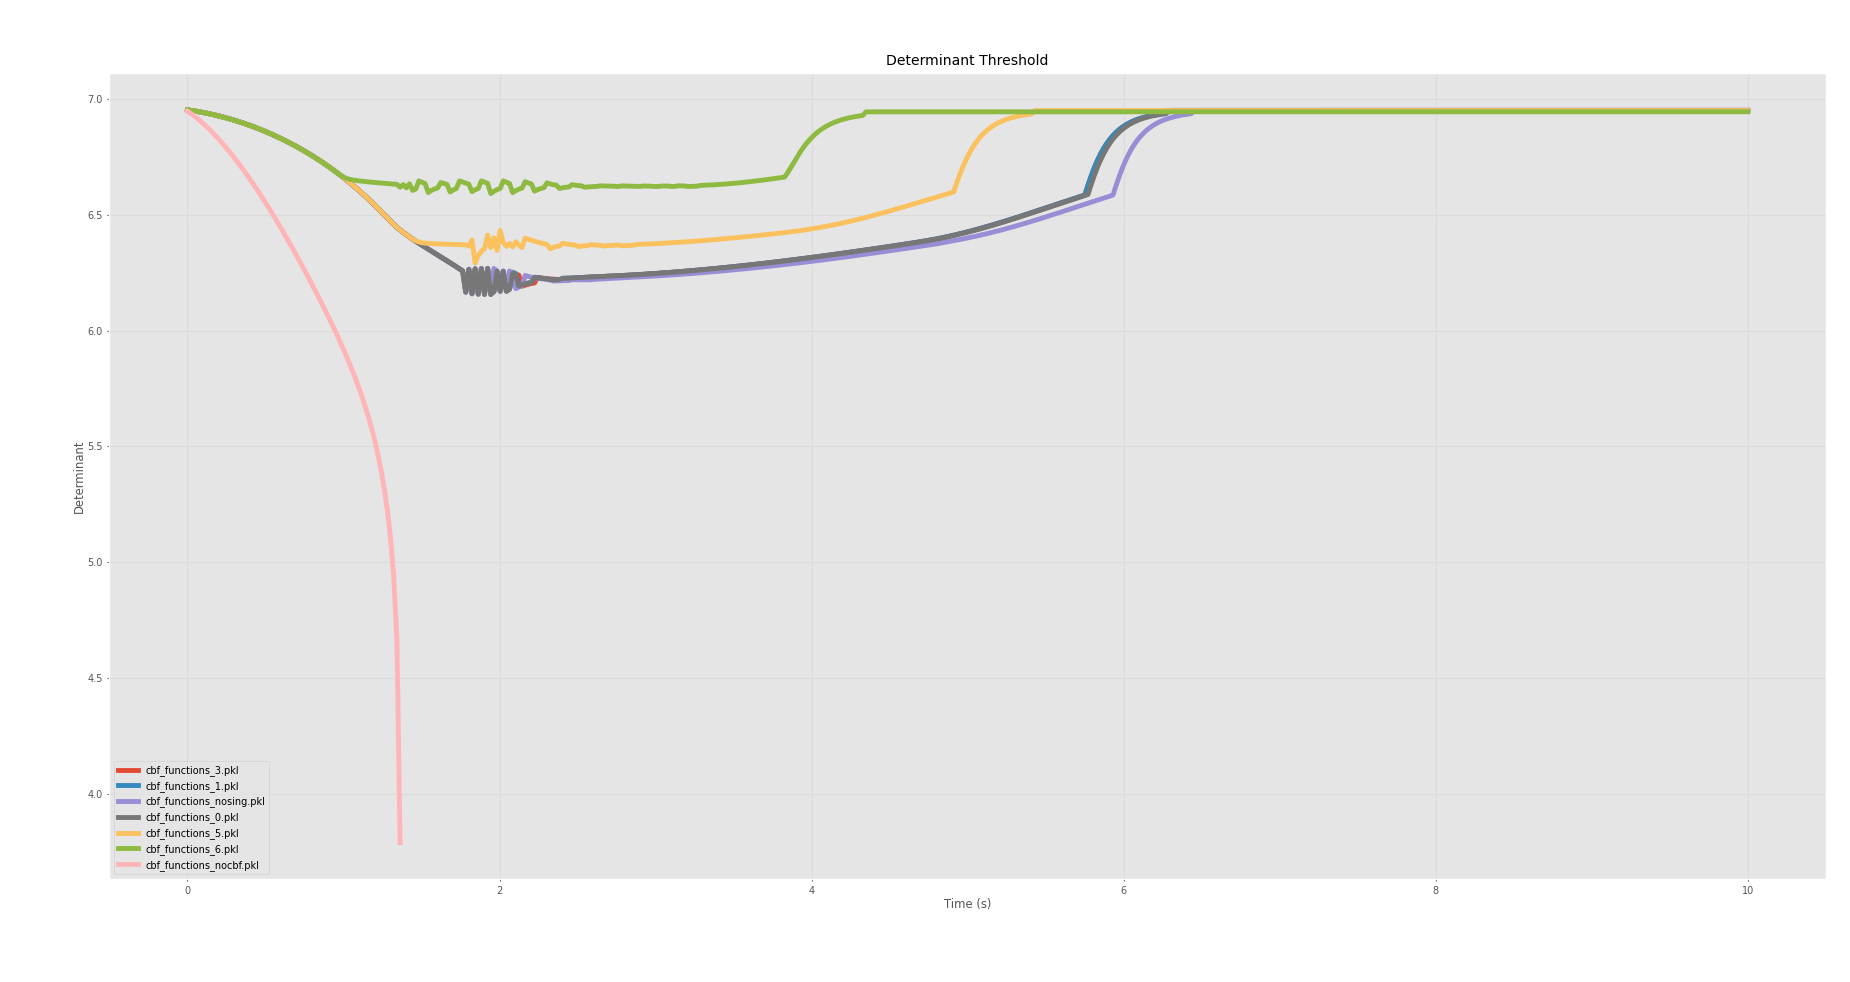
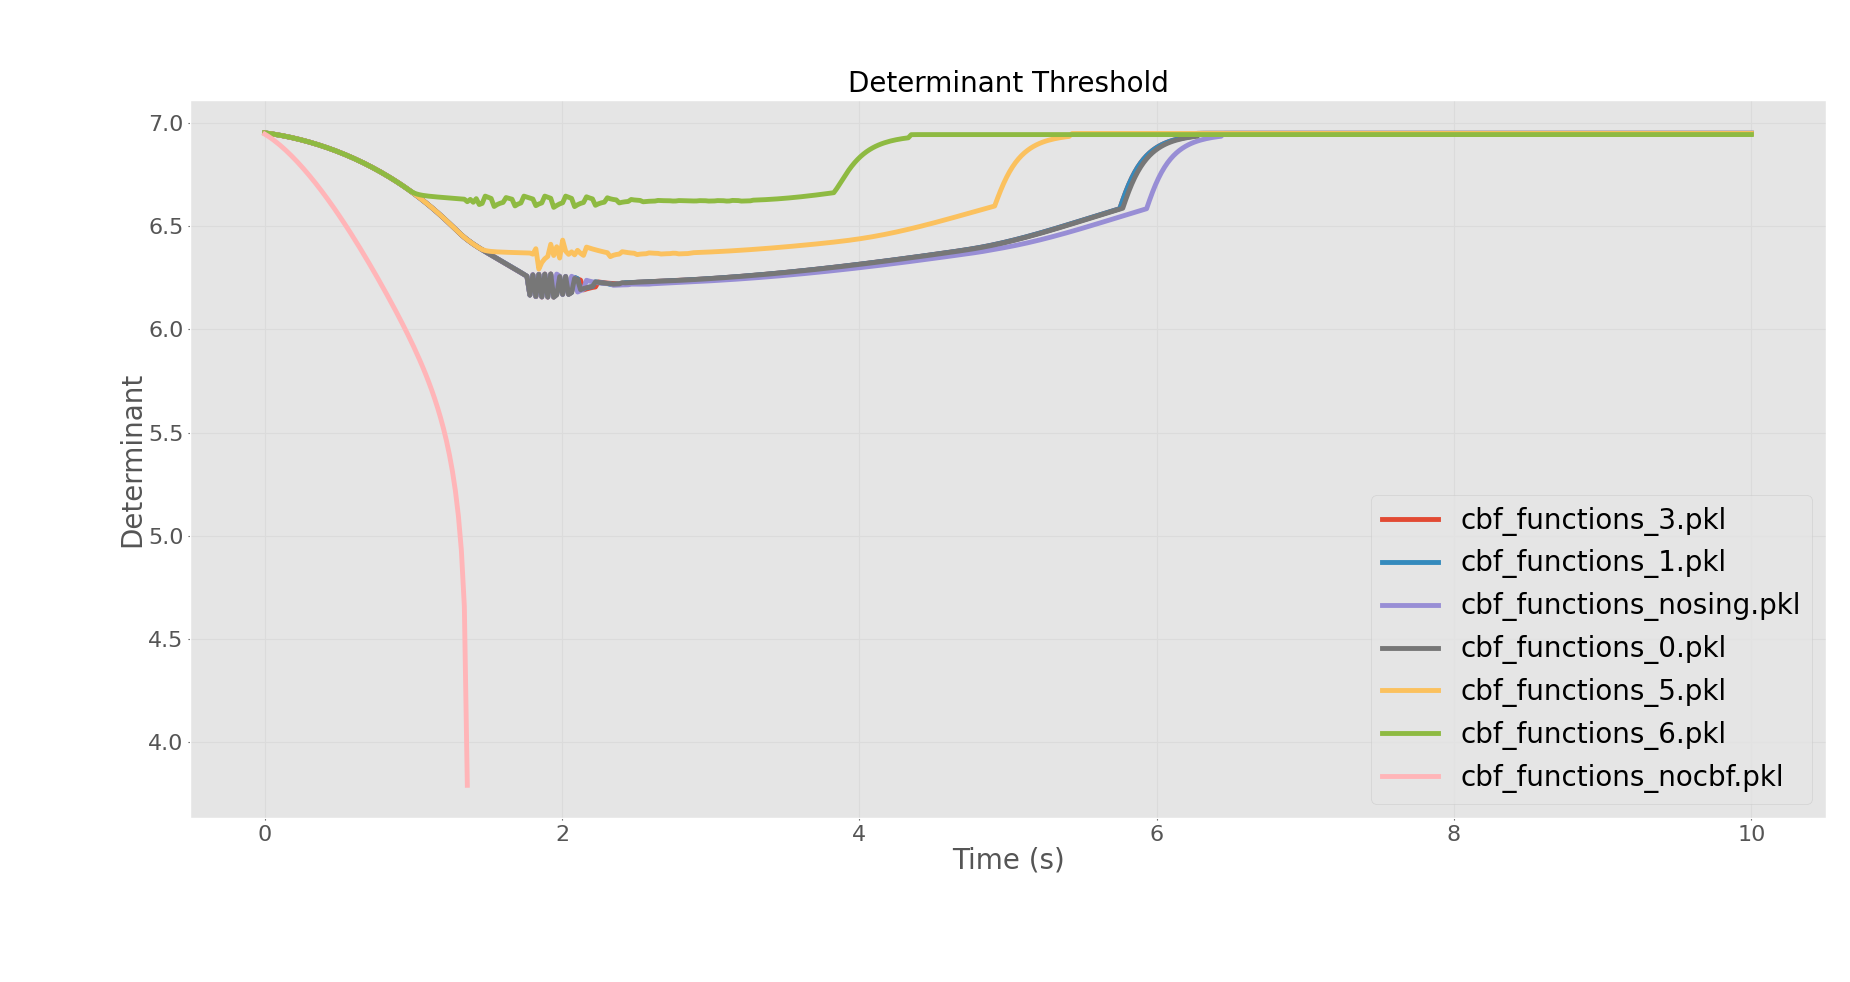
plots with increased font size for readability

Changed region(s): [[0.0308, 0.0611, 0.9859, 0.9165]]

diff --git a/rbe575project/lib/projectcode/viz_ts.py b/rbe575project/lib/projectcode/viz_ts.py
@@ -23,10 +23,12 @@ for f in ts_files:
 
 plt.xlim([-50, 200])
 plt.ylim([-300, 300])
-plt.legend()
-plt.title("Task Space Trajectories")
-plt.xlabel("X (mm)")
-plt.ylabel("Y (mm)")
+plt.legend(prop={'size': 16})
+plt.xticks(fontsize=16)
+plt.yticks(fontsize=16)
+plt.title("Task Space Trajectories", fontsize=20)
+plt.xlabel("X (mm)", fontsize=20)
+plt.ylabel("Y (mm)", fontsize=20)
 
 js_dir = 'rbe575project/lib/projectcode/js_traj'
 js_files = [f for f in os.listdir(js_dir) if f.endswith('.pkl')]
@@ -42,11 +44,13 @@ for joint_idx in range(joint_count):
             time = np.linspace(0, 10, len(js_record))
             plt.plot(time, js_record[:, joint_idx], label=f, linewidth=3.5)
 
-    plt.title(f"Joint {joint_idx + 1} Trajectory")
-    plt.xlabel("Time (s)")
-    plt.ylabel(f"Joint {joint_idx + 1} (rad)")
+    plt.title(f"Joint {joint_idx + 1} Trajectory", fontsize=20)
+    plt.xticks(fontsize=16)
+    plt.yticks(fontsize=16)
+    plt.xlabel("Time (s)", fontsize=20)
+    plt.ylabel(f"Joint {joint_idx + 1} (rad)", fontsize=20)
     plt.grid(True)
-    plt.legend()
+    plt.legend(fontsize=20)
     plt.tight_layout()
 
 cbf_dir = 'rbe575project/lib/projectcode/cbf_functions'
@@ -59,11 +63,13 @@ for f in cbf_files:
         time = np.linspace(0, 10, len(cbf_record))
         plt.plot(time, cbf_record[:], label=f, linewidth=3.5)
 
-    plt.title(f"Determinant Threshold")
-    plt.xlabel("Time (s)")
-    plt.ylabel(f"Determinant")
+    plt.title(f"Determinant Threshold", fontsize=20)
+    plt.xticks(fontsize=16)
+    plt.yticks(fontsize=16)
+    plt.xlabel("Time (s)", fontsize=20)
+    plt.ylabel(f"Determinant", fontsize=20)
     plt.grid(True)
-    plt.legend()
+    plt.legend(fontsize=20)
     plt.tight_layout()
 
 plt.show()
